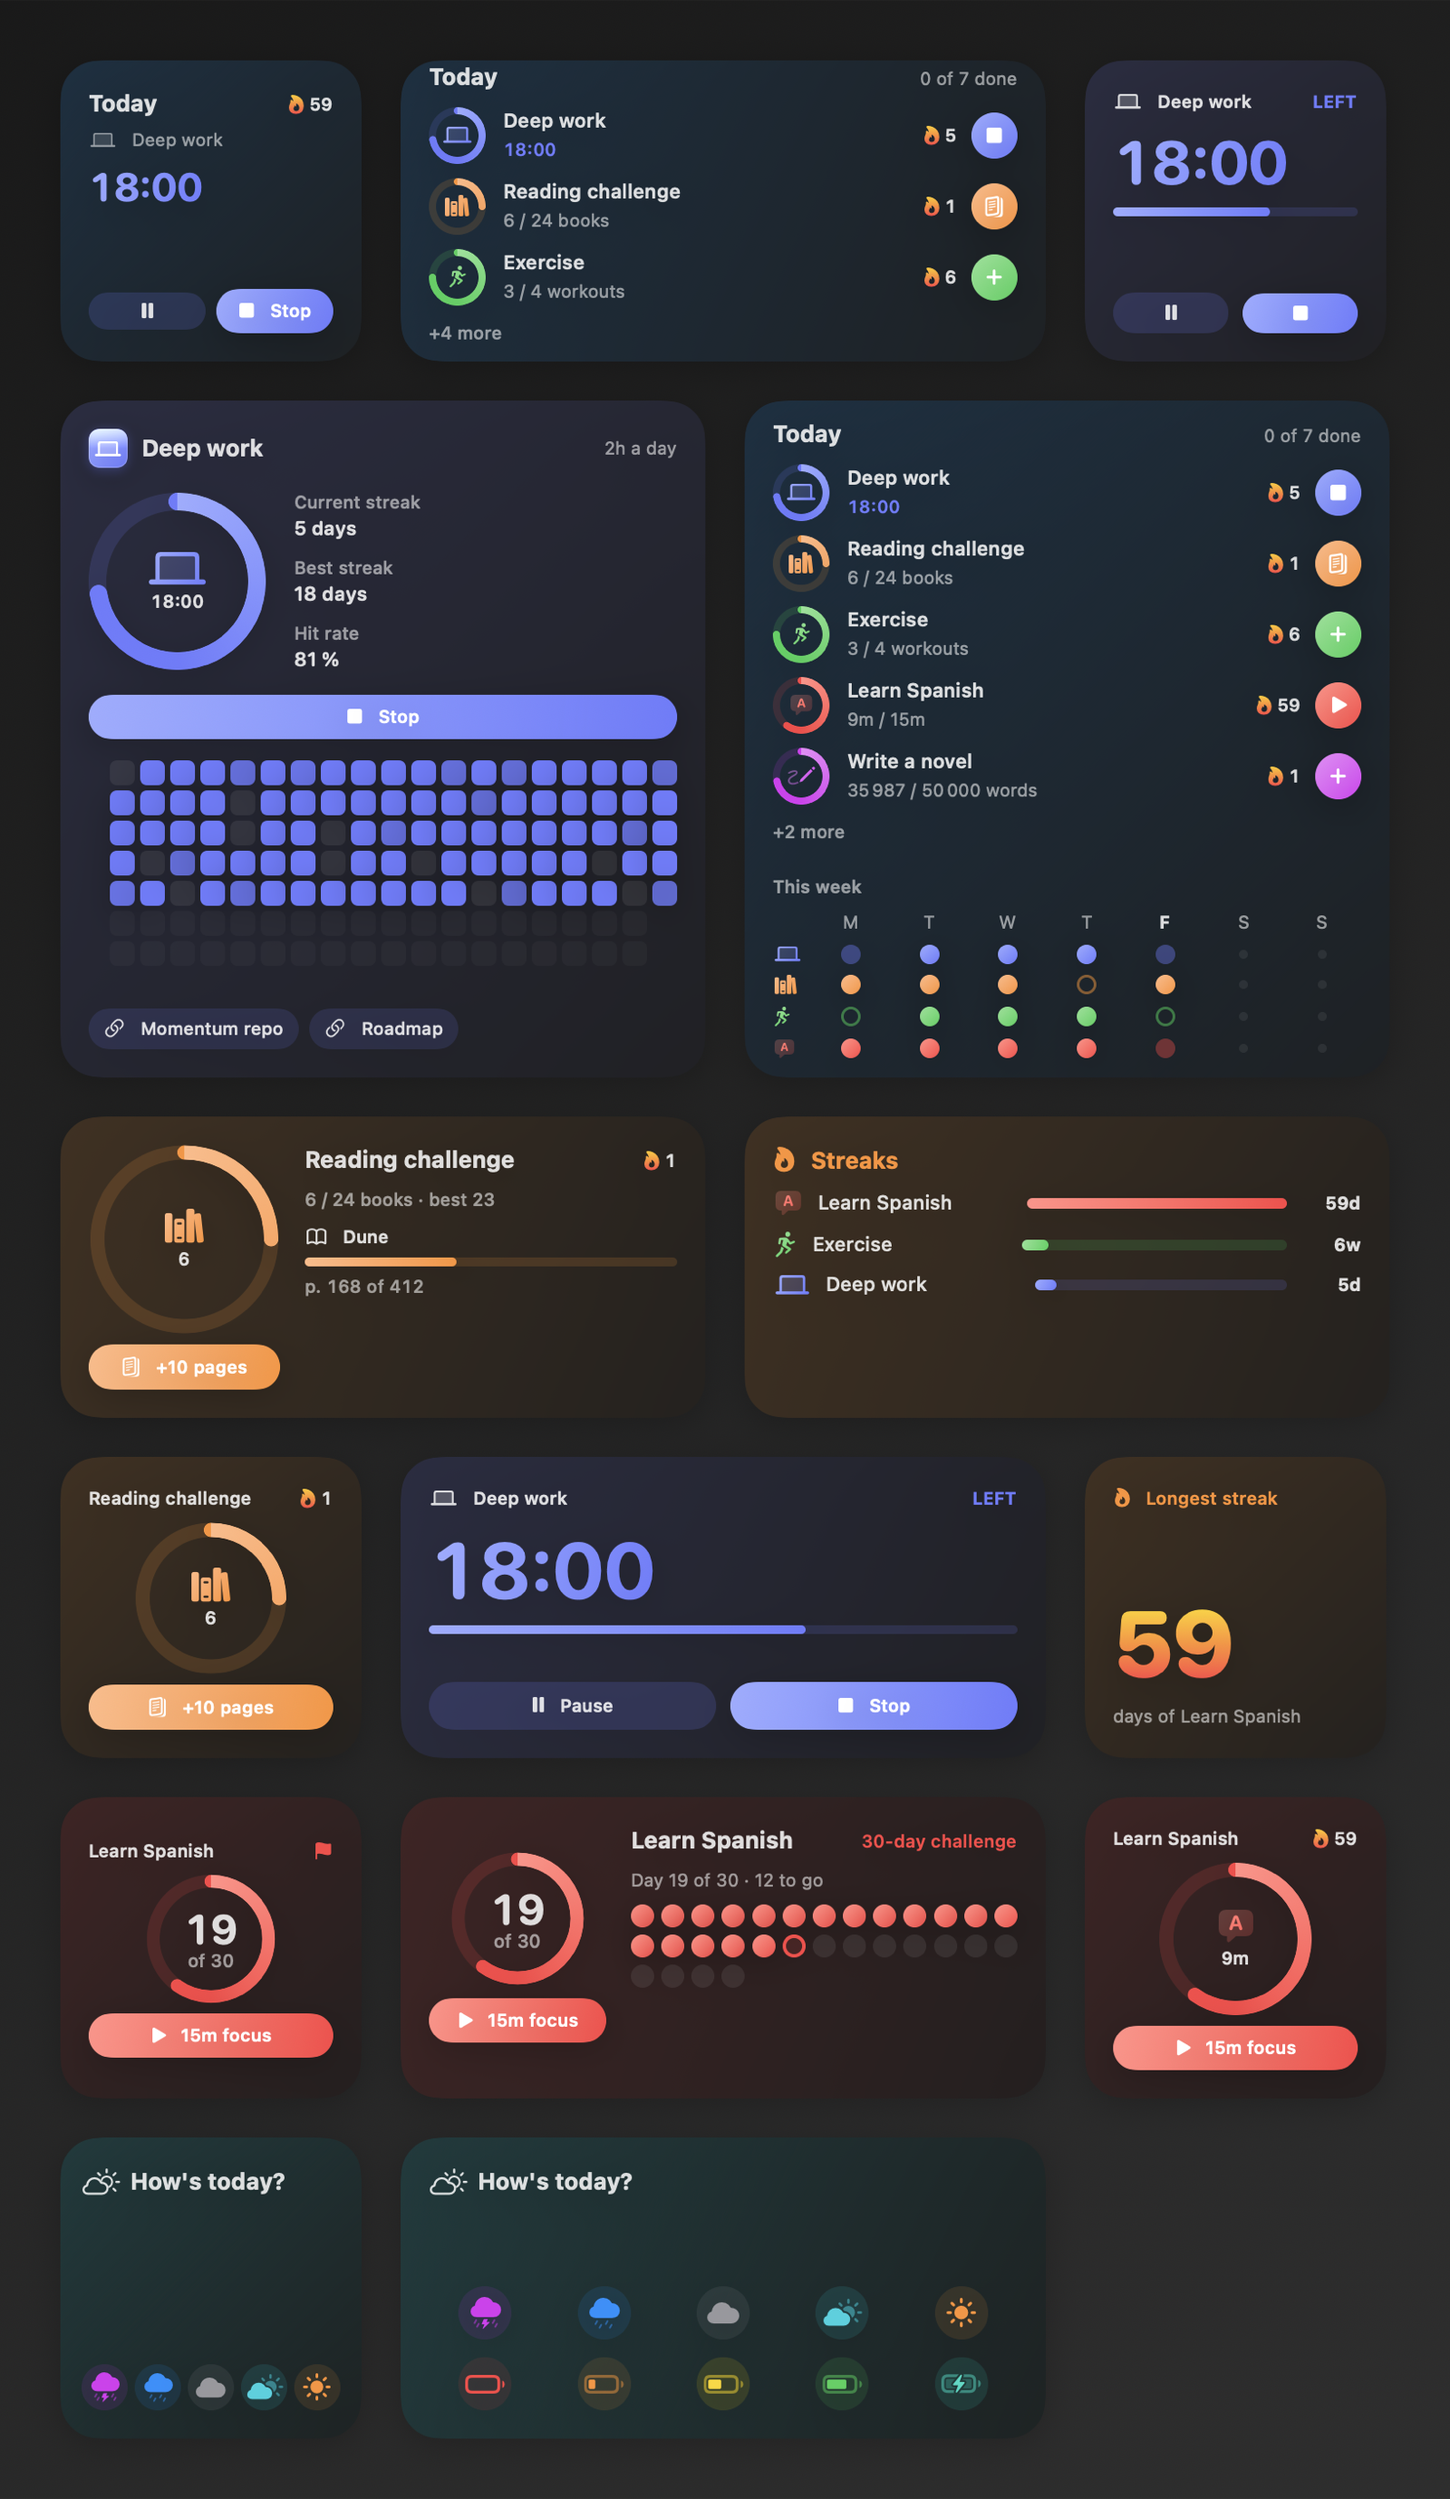
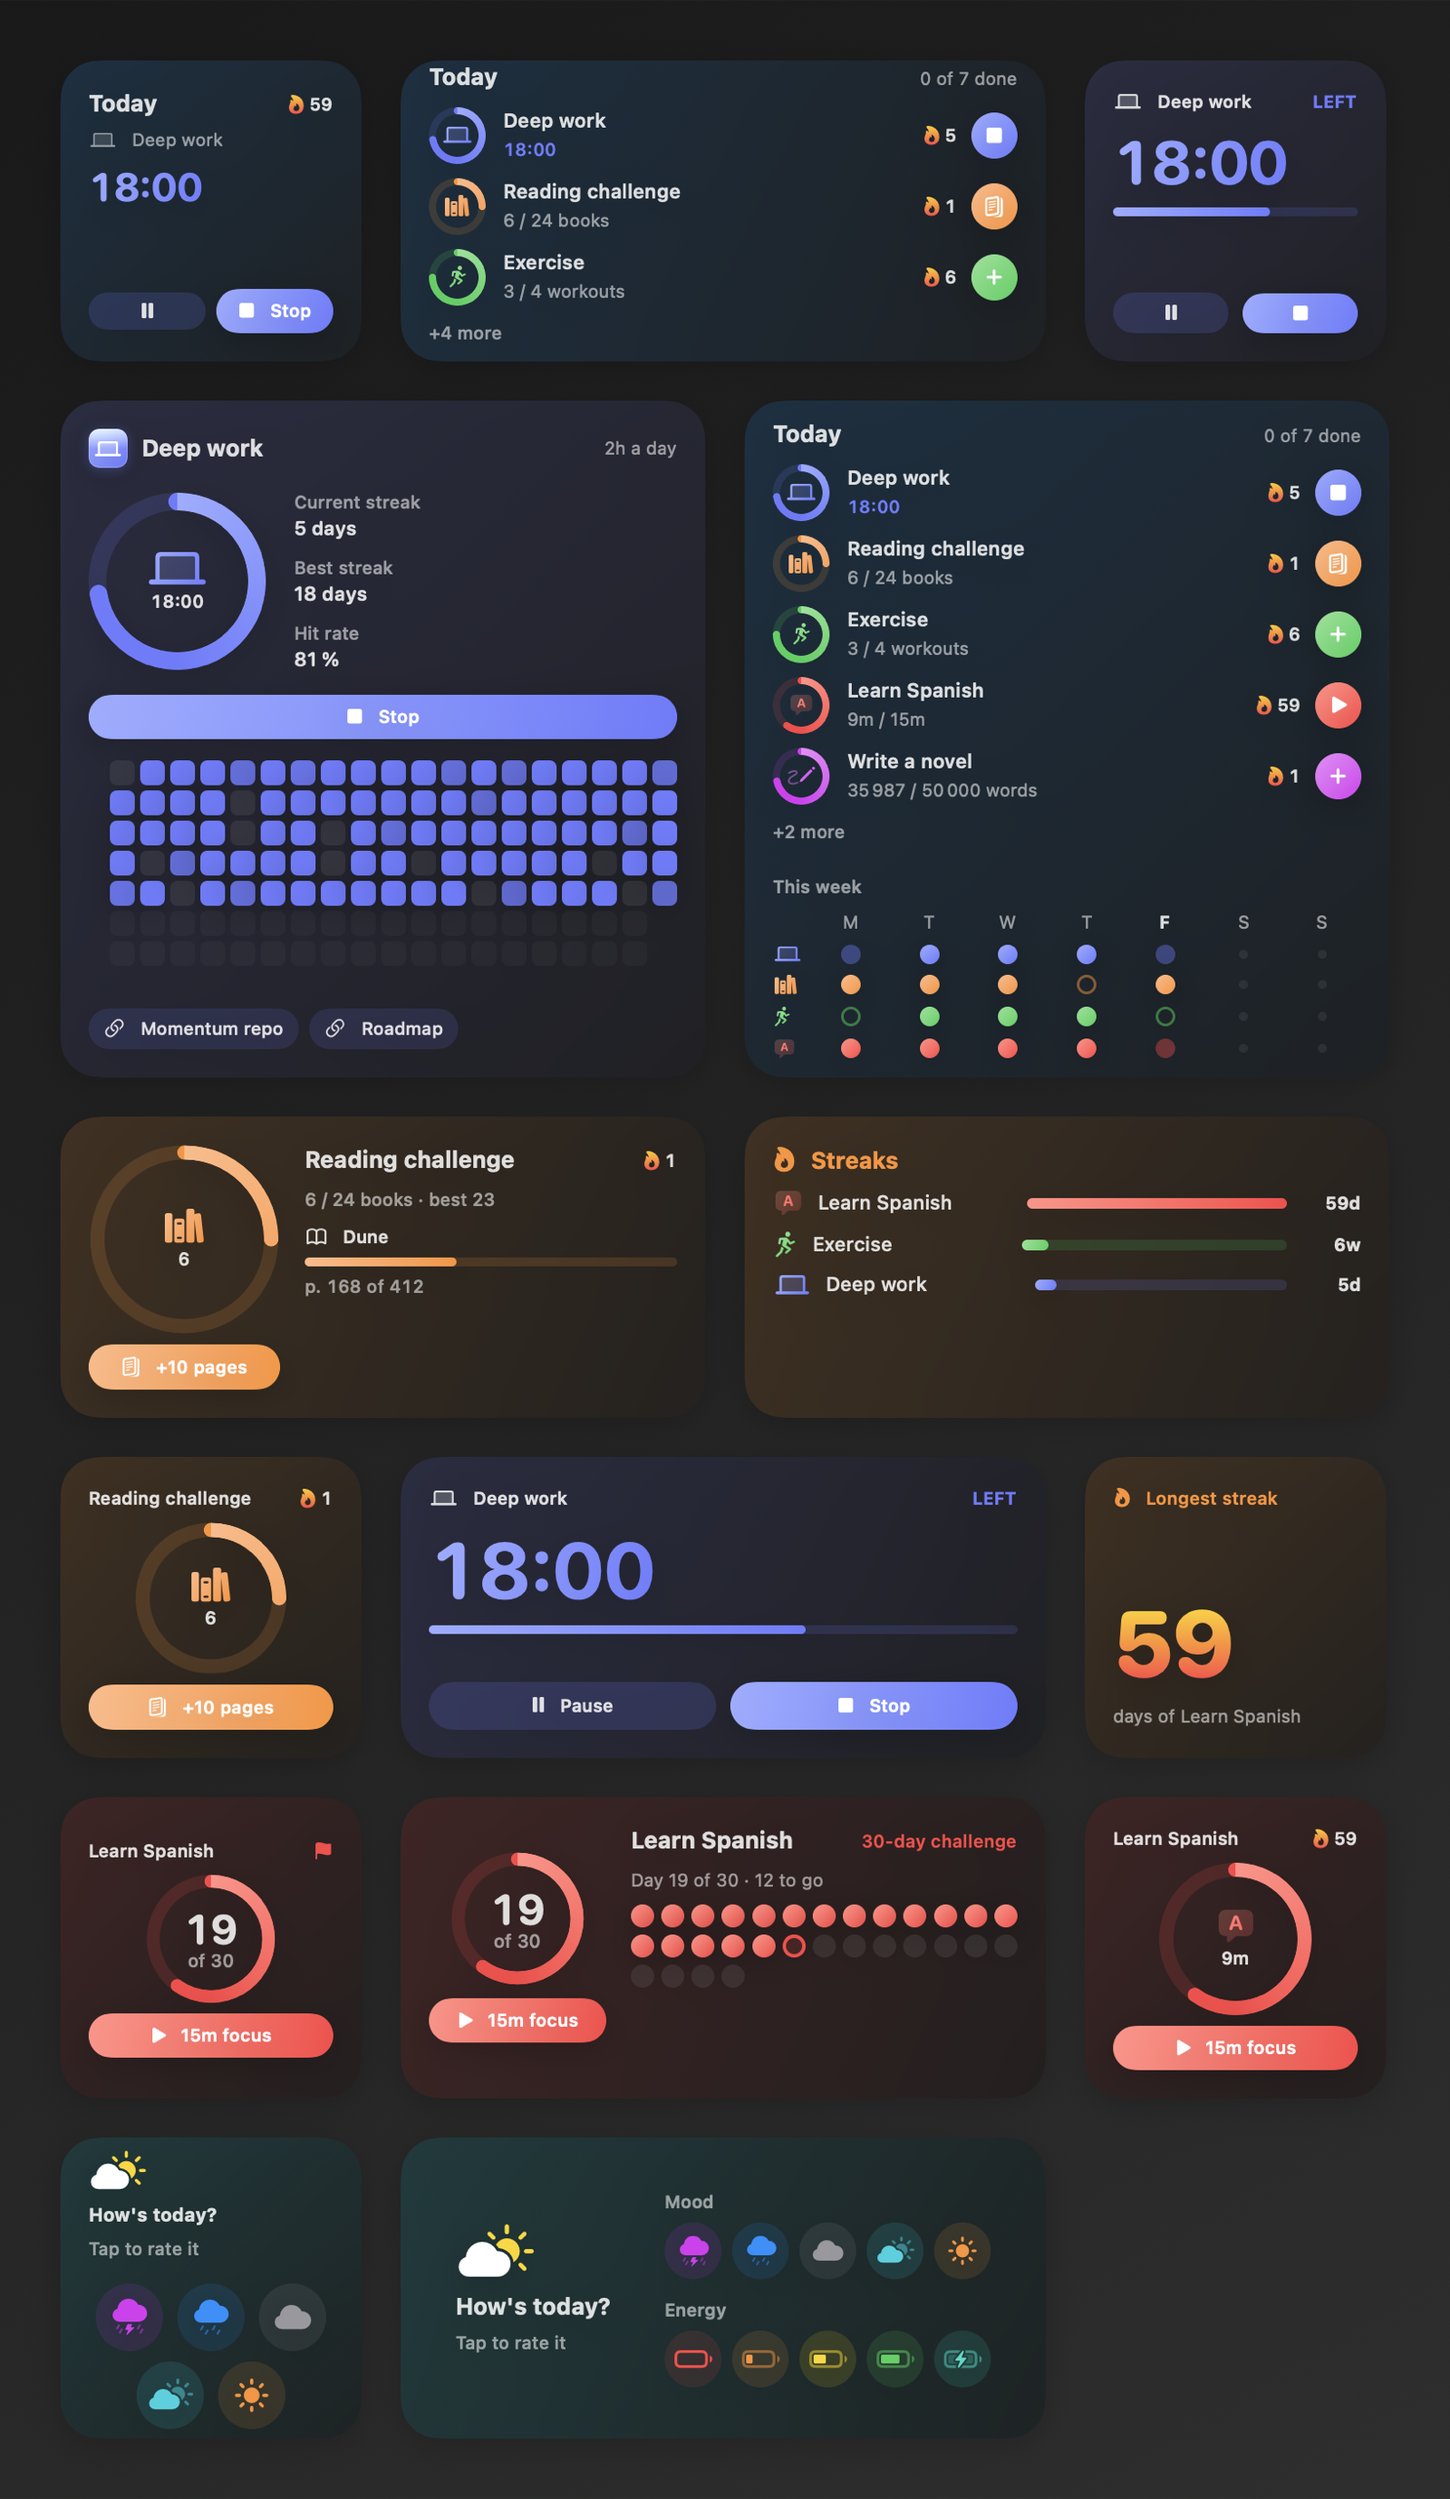
Lay out the Mood widget to fill its space: two rows on the small size, labeled rows on the medium

Changed region(s): [[0.4688, 0.8731, 0.6875, 0.9666], [0.0625, 0.8419, 0.2188, 0.9978], [0.3125, 0.8731, 0.4375, 0.9666]]

diff --git a/MomentumWidgets/MoodWidget.swift b/MomentumWidgets/MoodWidget.swift
@@ -21,54 +21,99 @@ struct MoodWidgetView: View {
     @Environment(\.widgetFamily) private var family
     let entry: MomentumEntry
 
+    private var today: JournalEntry? { entry.data.journalEntry(for: DayID(entry.date)) }
+
     var body: some View {
-        let today = entry.data.journalEntry(for: DayID(entry.date))
-        let mood = today?.mood
-        VStack(alignment: .leading, spacing: 10) {
-            HStack(spacing: 6) {
-                Image(systemName: mood?.symbolName ?? "cloud.sun")
-                    .symbolRenderingMode(.multicolor)
-                    .font(.title3)
-                Text(mood.map { "A \($0.title.lowercased()) day" } ?? "How's today?")
-                    .font(.headline)
-                    .lineLimit(1)
-                    .minimumScaleFactor(0.8)
+        Group {
+            if family == .systemSmall {
+                small
+            } else {
+                medium
             }
+        }
+        .buttonStyle(.plain)
+        .widgetBackground(today?.mood?.tint ?? .teal)
+    }
+
+    /// The question, and five mood buttons in two rows.
+    private var small: some View {
+        let mood = today?.mood
+        return VStack(alignment: .leading, spacing: 6) {
+            header
             Spacer(minLength: 0)
-            row(Mood.allCases, selected: mood) { choice in
-                Button(intent: SetMoodIntent(choice)) {
-                    label(symbol: choice.symbolName, tint: choice.tint, title: choice.title, selected: choice == mood)
+            VStack(spacing: 6) {
+                HStack(spacing: 8) {
+                    ForEach(Mood.allCases.prefix(3)) { moodButton($0, selected: mood, size: 38) }
+                }
+                HStack(spacing: 8) {
+                    ForEach(Mood.allCases.suffix(2)) { moodButton($0, selected: mood, size: 38) }
                 }
             }
-            if family != .systemSmall {
-                row(Energy.allCases, selected: today?.energy) { level in
-                    Button(intent: SetEnergyIntent(level)) {
-                        label(symbol: level.symbolName, tint: level.tint, title: level.title, selected: level == today?.energy)
+            .frame(maxWidth: .infinity)
+        }
+    }
+
+    /// The question on the left; mood and energy, a row each, on the right.
+    private var medium: some View {
+        let mood = today?.mood
+        let energy = today?.energy
+        return HStack(spacing: 14) {
+            header
+                .frame(width: 104, alignment: .leading)
+            VStack(alignment: .leading, spacing: 10) {
+                row("Mood") {
+                    ForEach(Mood.allCases) { moodButton($0, selected: mood, size: 32) }
+                }
+                row("Energy") {
+                    ForEach(Energy.allCases) { level in
+                        Button(intent: SetEnergyIntent(level)) {
+                            circle(level.symbolName, tint: level.tint, title: level.title, selected: level == energy, size: 32)
+                        }
                     }
                 }
             }
         }
-        .buttonStyle(.plain)
-        .widgetBackground(mood?.tint ?? .teal)
     }
 
-    private func row<Item: Identifiable & Equatable, Content: View>(_ items: [Item], selected: Item?, @ViewBuilder button: @escaping (Item) -> Content) -> some View {
-        HStack(spacing: 4) {
-            ForEach(items) { item in
-                button(item)
-                    .frame(maxWidth: .infinity)
-            }
+    private var header: some View {
+        let mood = today?.mood
+        return VStack(alignment: .leading, spacing: 4) {
+            Image(systemName: mood?.symbolName ?? "cloud.sun.fill")
+                .symbolRenderingMode(.multicolor)
+                .font(.system(size: family == .systemSmall ? 22 : 30))
+            Text(mood.map { "A \($0.title.lowercased()) day" } ?? "How's today?")
+                .font(.headline)
+                .lineLimit(2)
+                .minimumScaleFactor(0.8)
+            Text(mood == nil ? "Tap to rate it" : "Tap to change")
+                .font(.caption2)
+                .foregroundStyle(.secondary)
         }
     }
 
-    private func label(symbol: String, tint: Color, title: String, selected: Bool) -> some View {
+    private func row<Content: View>(_ title: String, @ViewBuilder content: () -> Content) -> some View {
+        VStack(alignment: .leading, spacing: 4) {
+            Text(title)
+                .font(.caption2.weight(.semibold))
+                .foregroundStyle(.secondary)
+            HStack(spacing: 6) { content() }
+        }
+    }
+
+    private func moodButton(_ choice: Mood, selected: Mood?, size: CGFloat) -> some View {
+        Button(intent: SetMoodIntent(choice)) {
+            circle(choice.symbolName, tint: choice.tint, title: choice.title, selected: choice == selected, size: size)
+        }
+    }
+
+    private func circle(_ symbol: String, tint: Color, title: String, selected: Bool, size: CGFloat) -> some View {
         Image(systemName: symbol)
-            .font(.system(size: family == .systemSmall ? 14 : 15, weight: .semibold))
+            .font(.system(size: size * 0.45, weight: .semibold))
             .symbolRenderingMode(.hierarchical)
             .foregroundStyle(tint)
-            .frame(width: family == .systemSmall ? 26 : 30, height: family == .systemSmall ? 26 : 30)
-            .background(Circle().fill(tint.opacity(selected ? 0.32 : 0.12)))
-            .overlay(Circle().strokeBorder(tint.opacity(selected ? 0.8 : 0), lineWidth: 1.5))
+            .frame(width: size, height: size)
+            .background(Circle().fill(tint.opacity(selected ? 0.34 : 0.13)))
+            .overlay(Circle().strokeBorder(tint.opacity(selected ? 0.85 : 0), lineWidth: 1.5))
             .accessibilityLabel(title)
     }
 }
